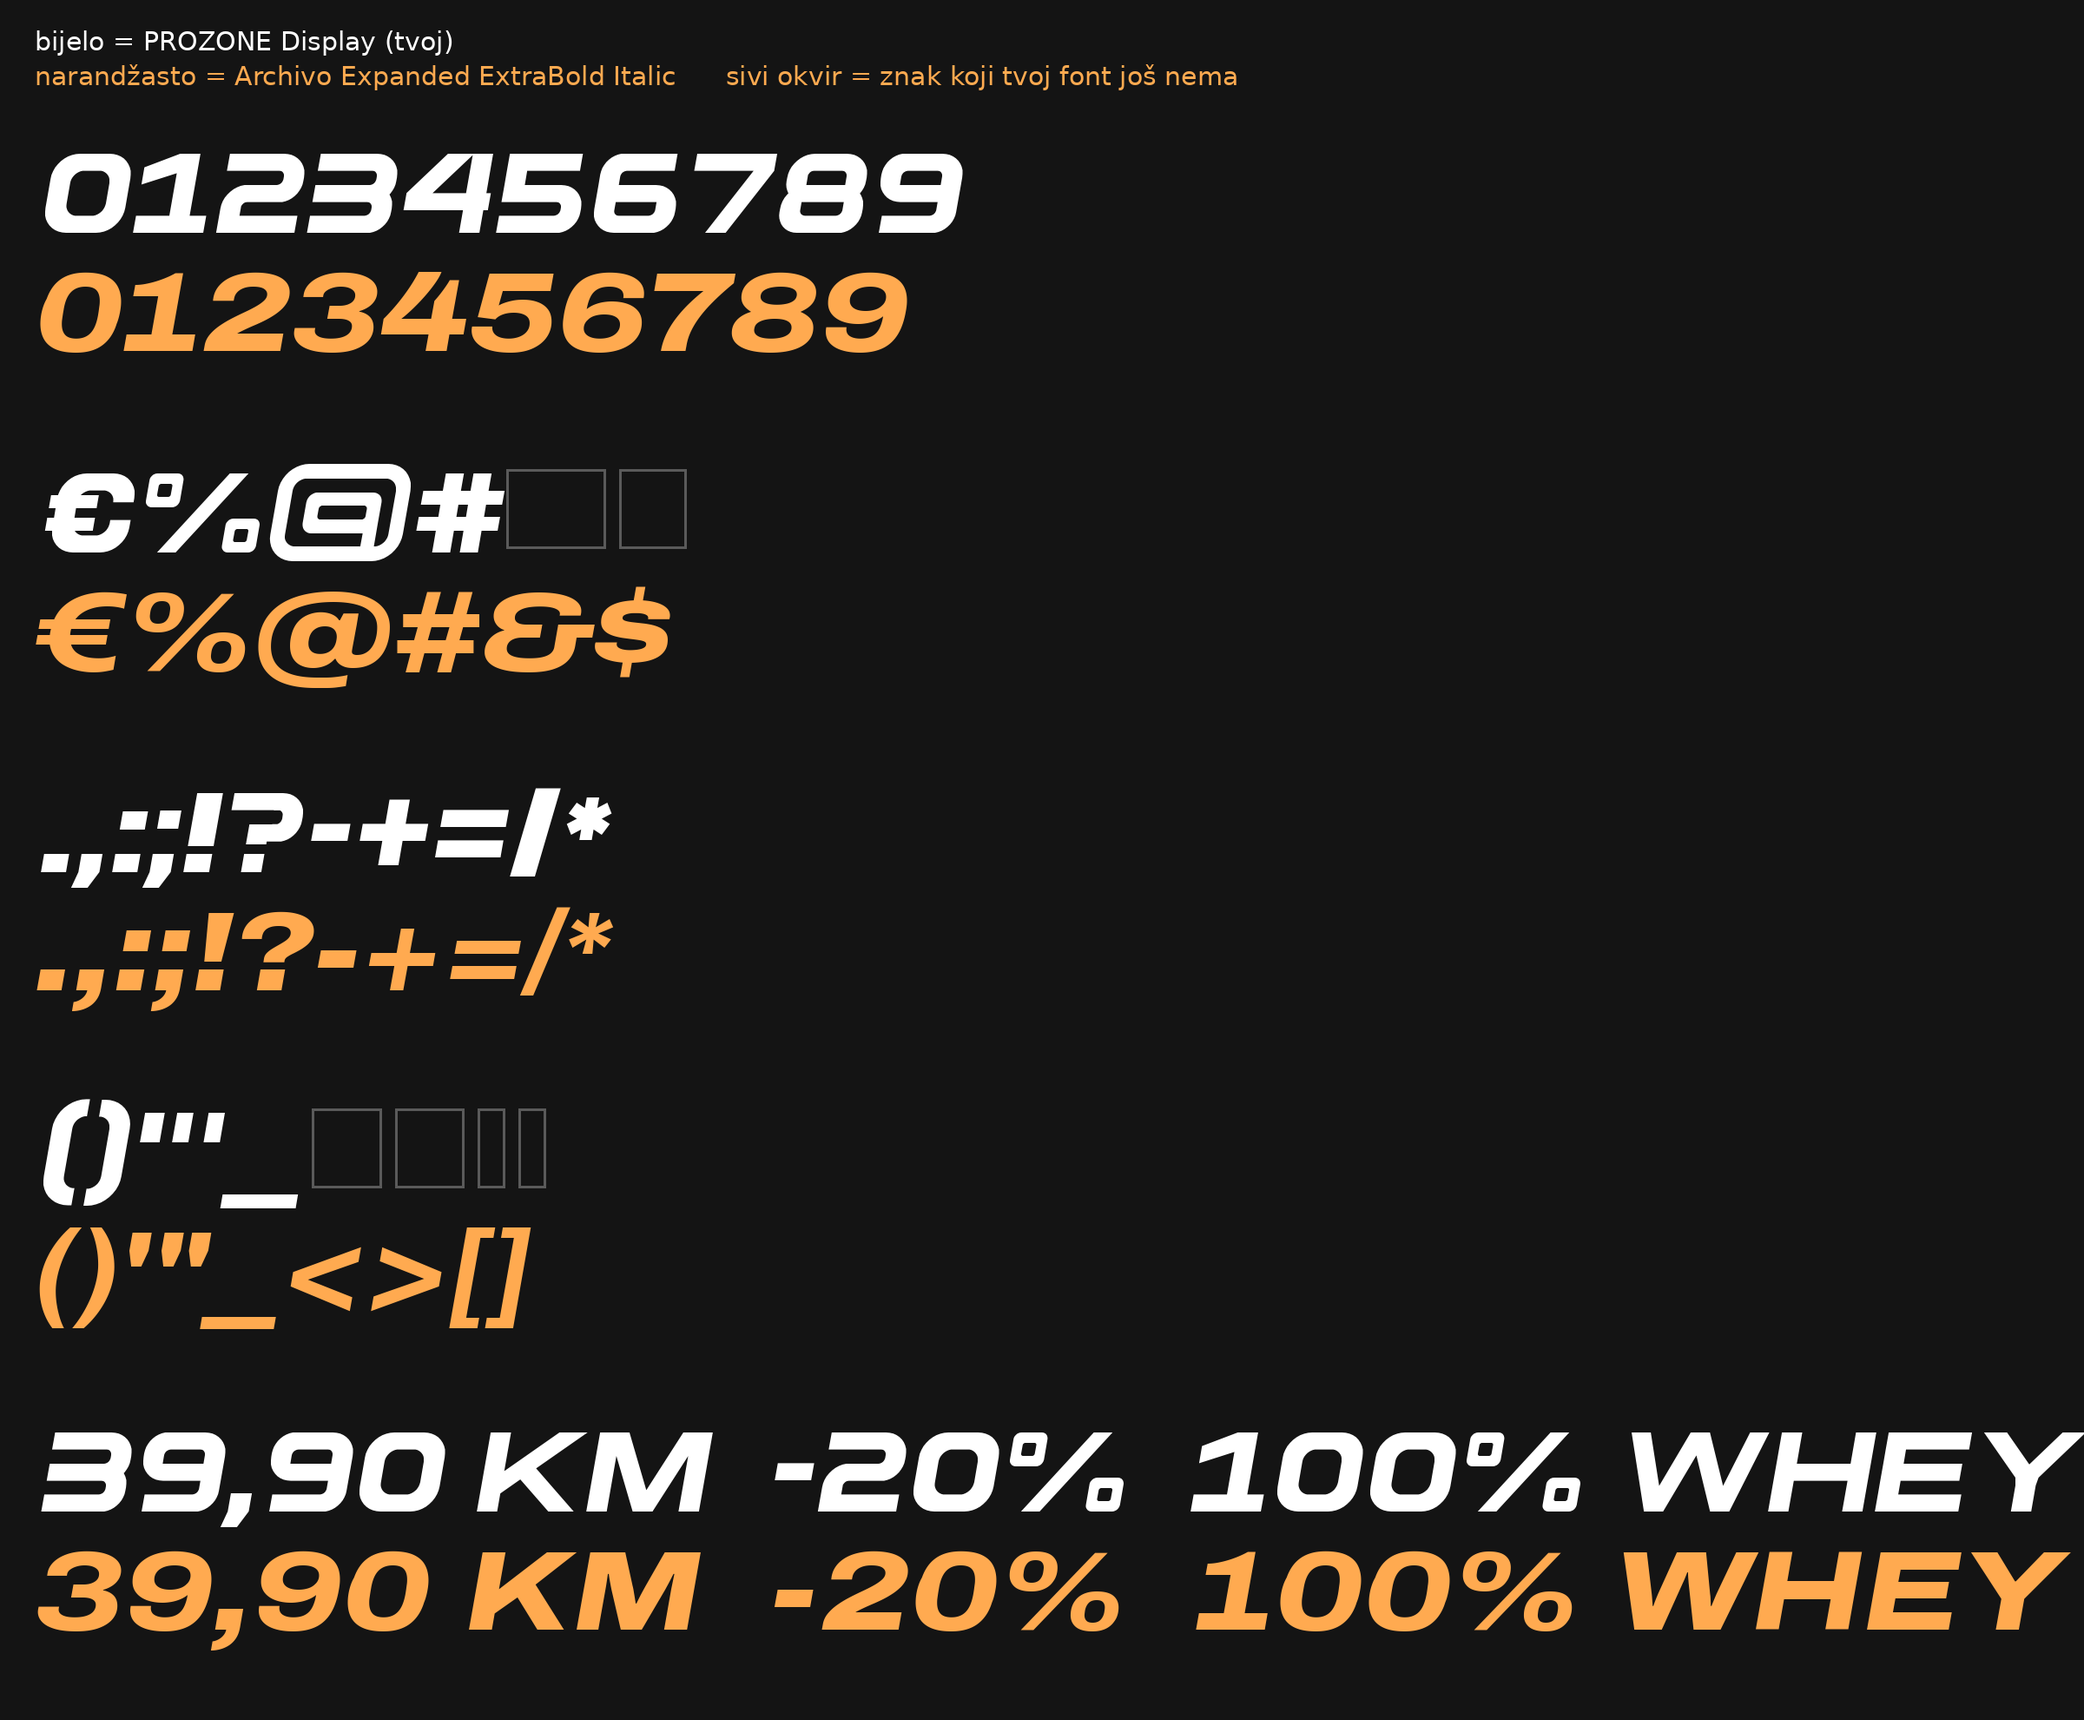
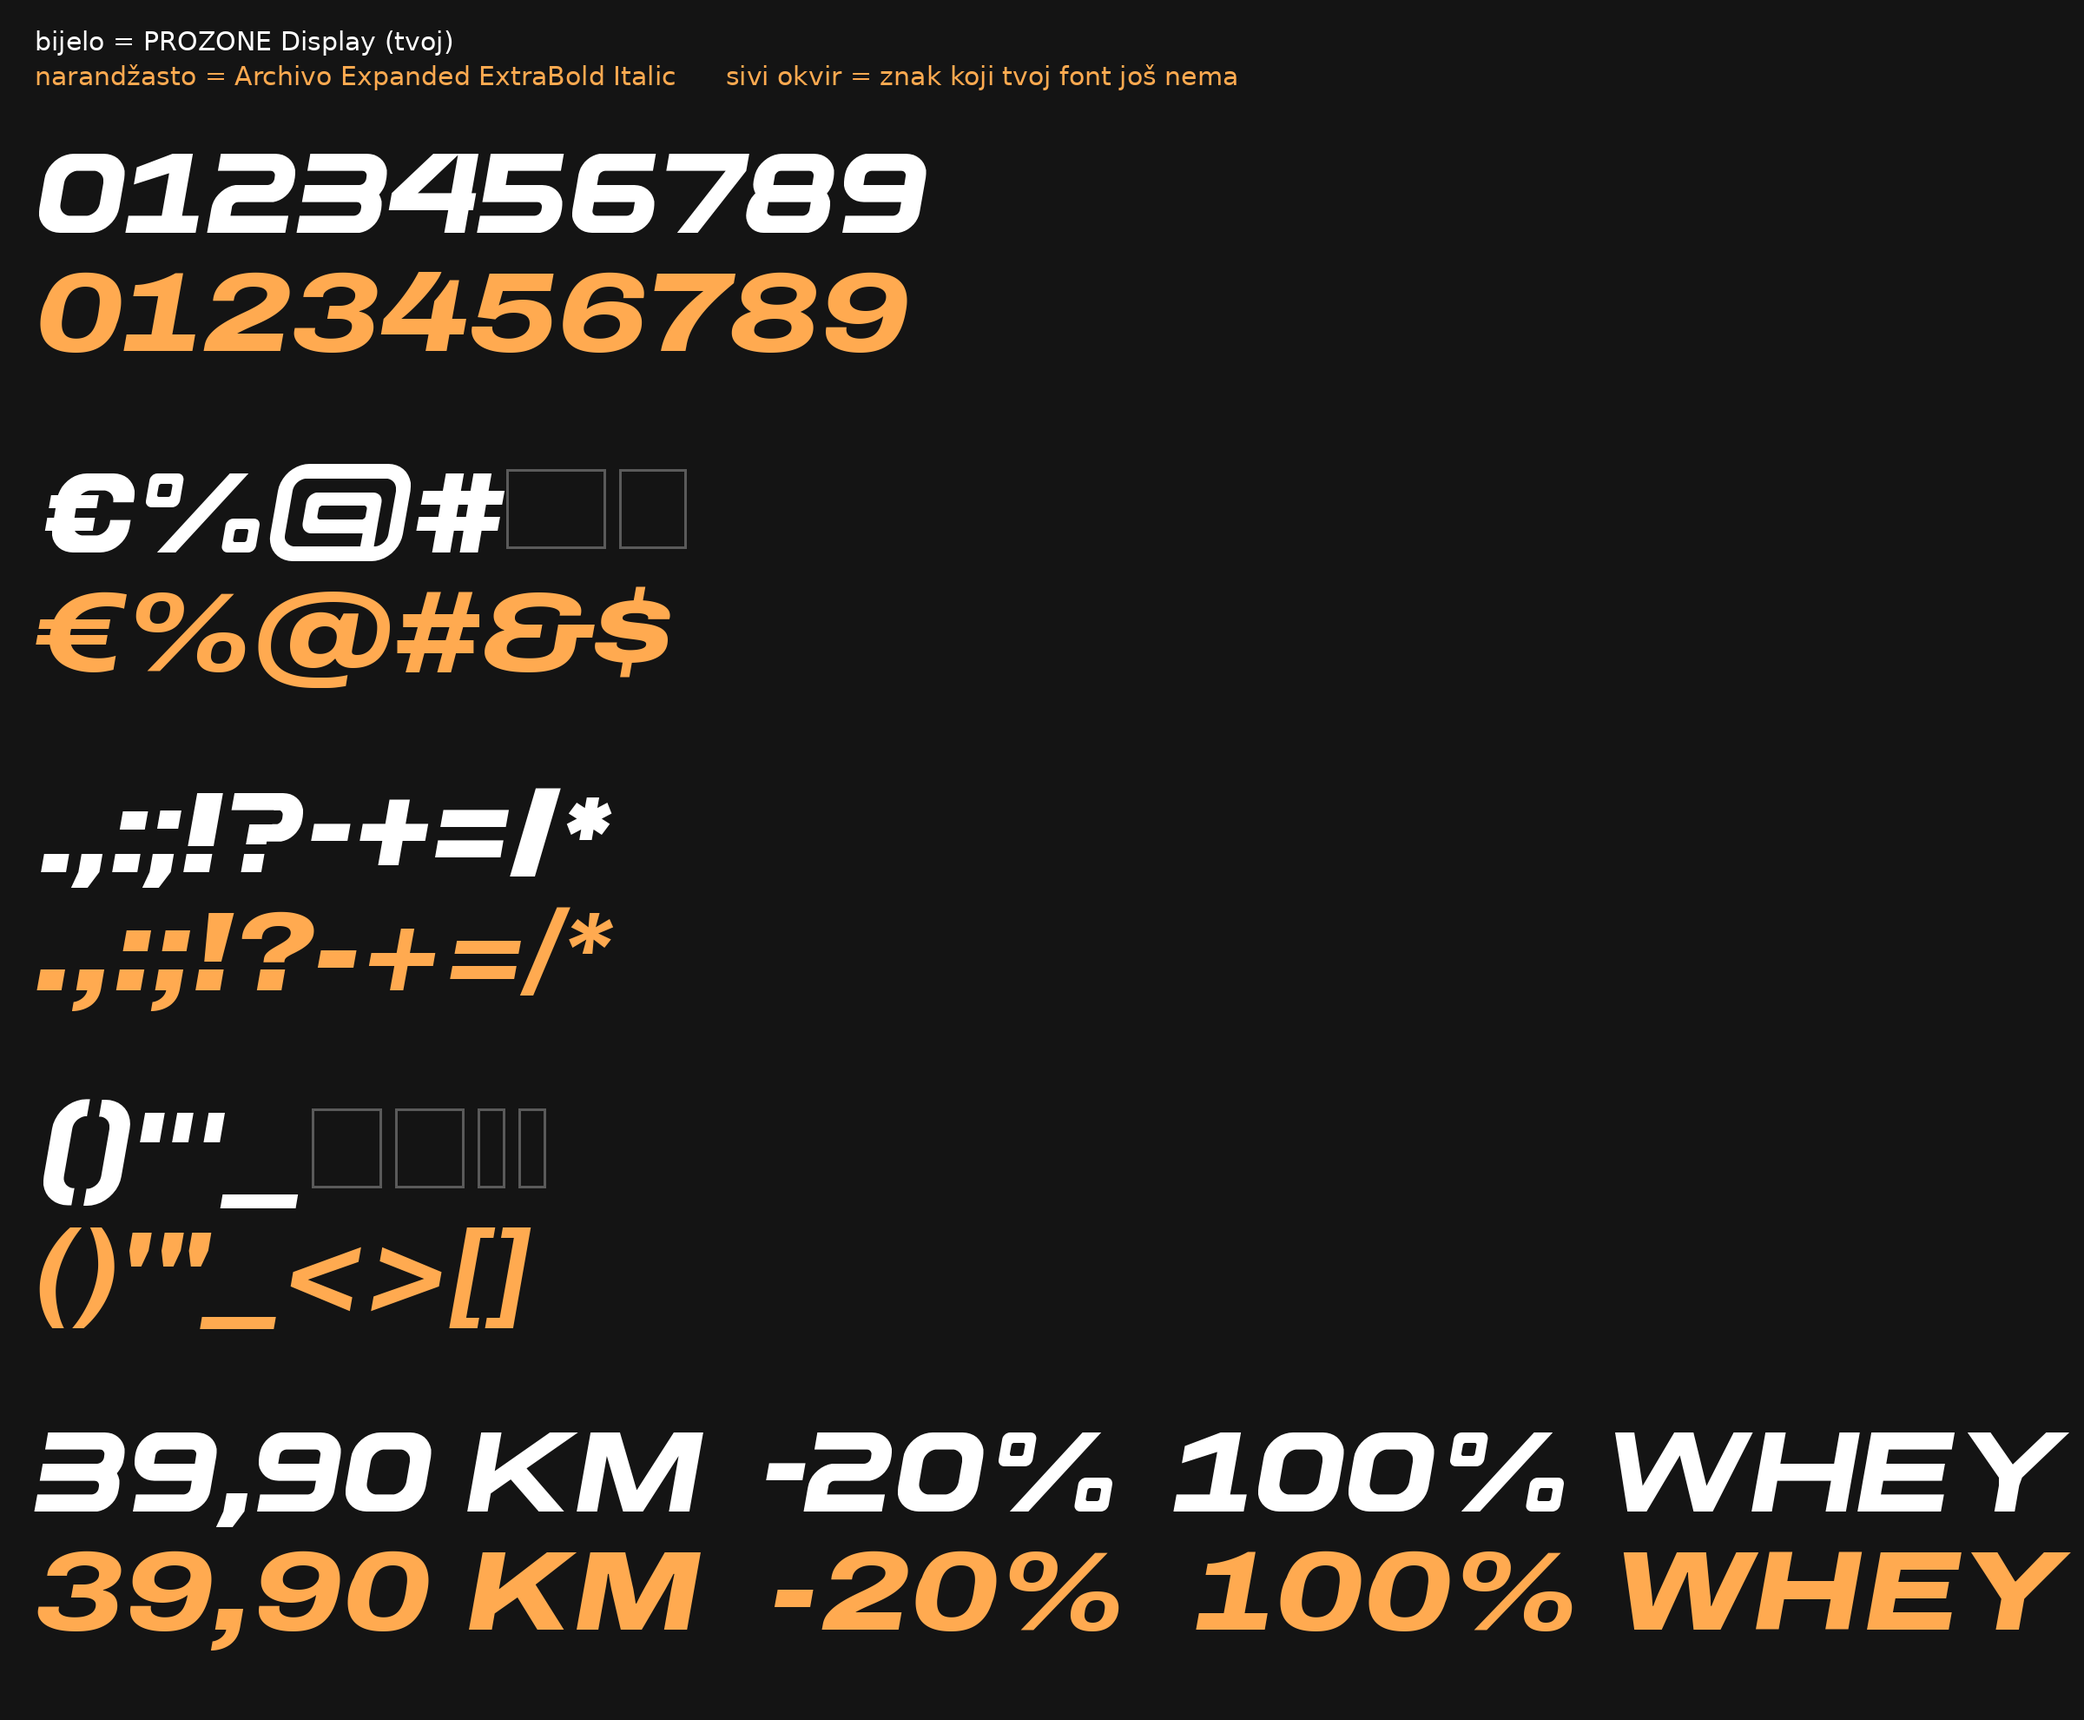
Font: digit spacing matched to Archivo Expanded ExtraBold Italic
Claude-Session: https://claude.ai/code/session_01VgbUEcHceGpcGcRoLDMoQW

Changed region(s): [[0.375, 0.8318, 1.0, 0.8934], [0.0, 0.0924, 0.4688, 0.154], [0.0312, 0.8318, 0.3438, 0.8934]]

diff --git a/font/build_prozone_font.py b/font/build_prozone_font.py
@@ -624,7 +624,10 @@ DIAG_LETTERS = set('AKMNVWXYZ')       # grade se u novoj sirini (debljine kosih 
 ARCHIVO_NW = {'0': 709, '1': 622, '2': 693, '3': 713, '4': 747, '5': 715, '6': 721, '7': 708, '8': 734, '9': 721,
               '.': 222, ',': 226, ':': 223, ';': 227, '!': 228, '?': 642, '-': 322, '+': 580, '=': 580, '/': 314,
               '%': 1044, "'": 174, '"': 423, '(': 291, ')': 291, '€': 742, '#': 720, '*': 381, '_': 668, '@': 1174}
-NUM_SPLIT = {'?': 0.64}    # mjesto rezanja (dio sirine) gdje nema stabla
+NUM_SPLIT = {'?': 0.64}
+# razmaci brojeva kao Archivo Expanded ExtraBold Italic: (lijevo, desno) od crteza bez nagiba
+ARCHIVO_DIGIT_SB = {'0': (0, 94), '1': (3, 93), '2': (4, 102), '3': (-2, 94), '4': (-22, 71), '5': (-3, 94),
+                    '6': (-1, 87), '7': (-31, 64), '8': (-3, 88), '9': (-6, 92)}    # mjesto rezanja (dio sirine) gdje nema stabla
 
 
 def _perp_w(perp, run_fn, rise):
@@ -854,13 +857,19 @@ def build(out_dir, family, logo_e):
     glyphs['.notdef'] = pen.glyph(); metrics['.notdef'] = (600, 60)
     for ch, fn in m.items():
         geom, W = fn()
-        if ch != ' ':
+        adv = int(W + 2 * SB) if ch != ' ' else W
+        if ch in ARCHIVO_DIGIT_SB:                    # brojevi: razmaci kao Archivo
+            l, r = ARCHIVO_DIGIT_SB[ch]
+            g0 = geom.buffer(0)
+            geom = affinity.translate(g0, l - g0.bounds[0], 0)
+            adv = int(round(l + (g0.bounds[2] - g0.bounds[0]) + r))
+            geom = affinity.skew(geom, xs=math.degrees(math.atan(SLANT)), origin=(0, 0))
+        elif ch != ' ':
             geom = affinity.translate(geom.buffer(0), SB, 0)
             geom = affinity.skew(geom, xs=math.degrees(math.atan(SLANT)), origin=(0, 0))
         name = 'space' if ch == ' ' else f'uni{ord(ch):04X}'
         order.append(name)
         glyphs[name] = to_glyph(geom)
-        adv = int(W + 2 * SB) if ch != ' ' else W
         xmin = int(geom.bounds[0]) if not geom.is_empty else 0
         metrics[name] = (adv, xmin)
         cmap[ord(ch)] = name
